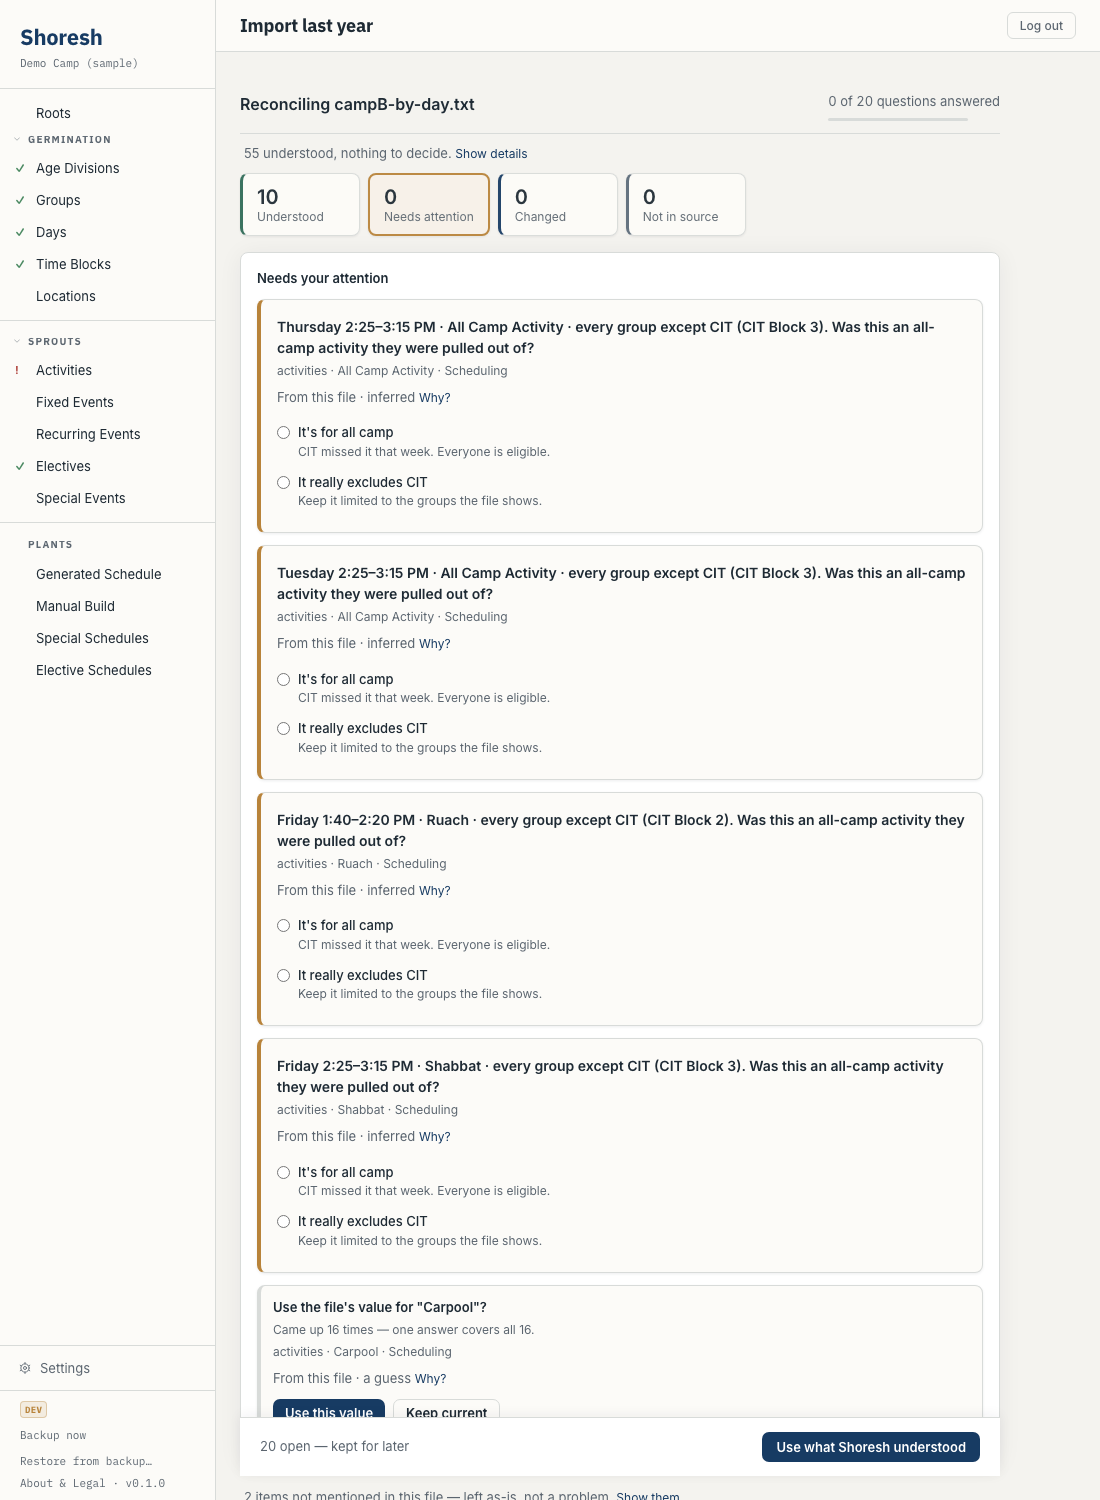
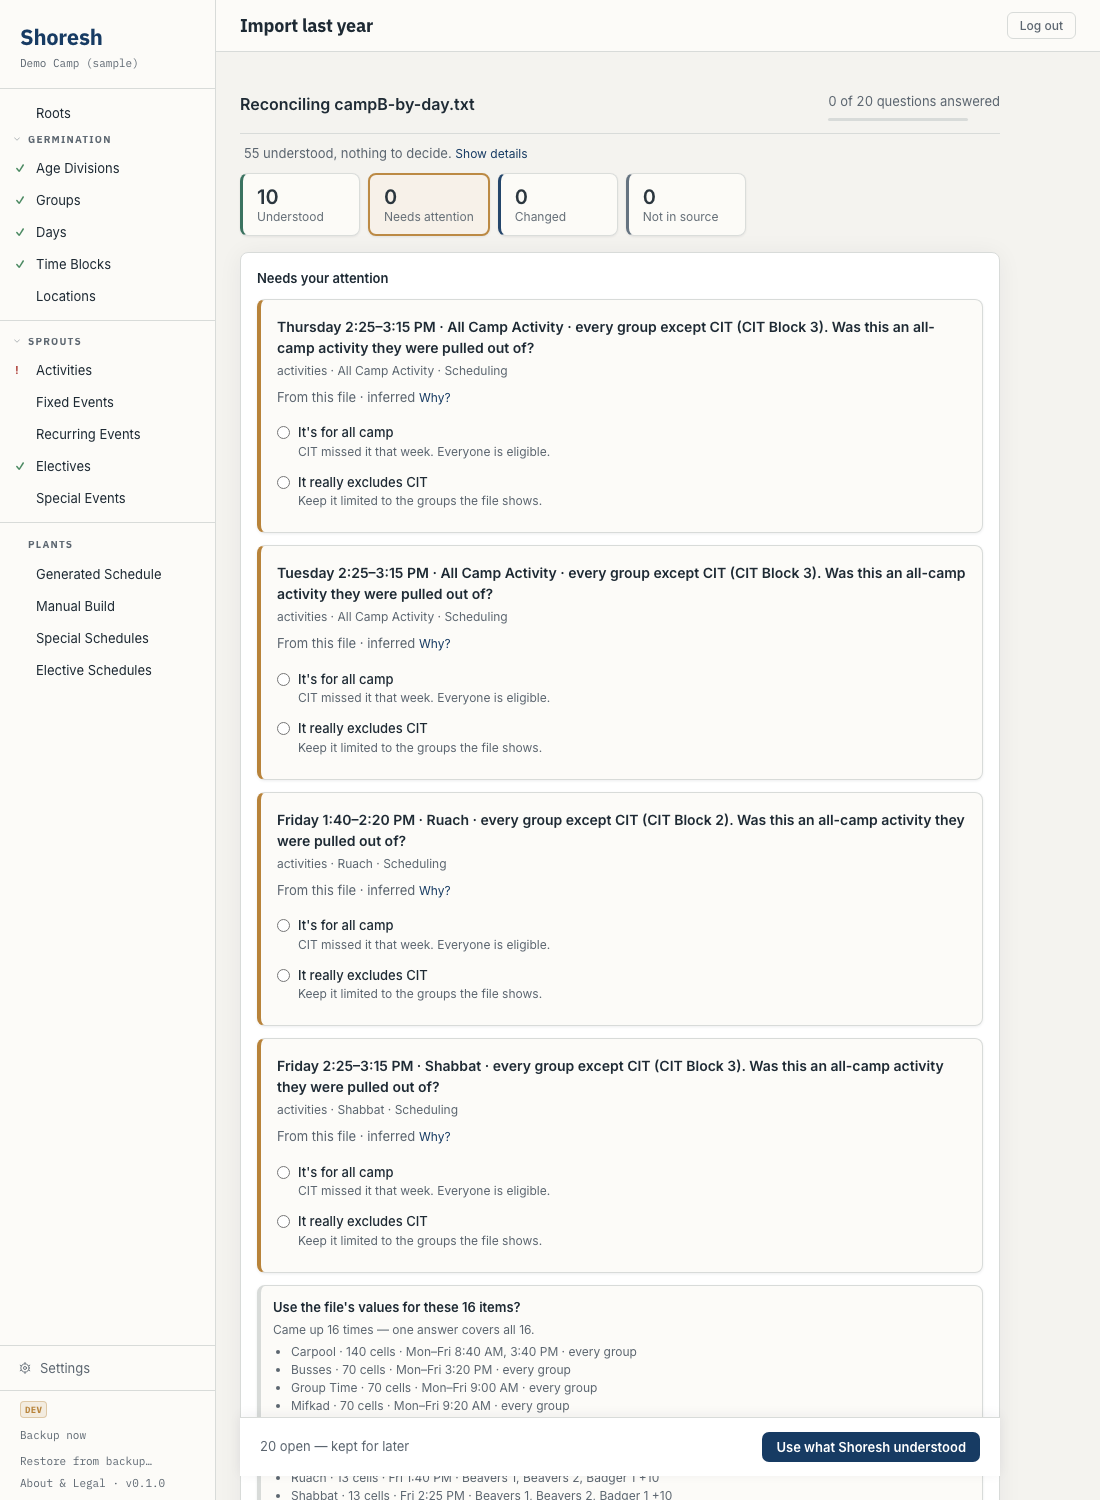
Aggregated review cards list where each item appears (days, 12-hour times, groups); a card for different items no longer names only the first

Changed region(s): [[0.2473, 0.8587, 0.5255, 0.9507], [0.2164, 0.9813, 0.6182, 1.0]]

diff --git a/src/ingest/appearsAt.js b/src/ingest/appearsAt.js
@@ -1,0 +1,91 @@
+import { startMinutesForOrdering } from './orderTimeBlocks.js'
+import { formatBlockStart12h } from './blockTimeText.js'
+
+// Where an item appears, compactly, so a review card never shows a bare name:
+// "Carpool · 140 cells · Mon–Fri 8:40 AM, 3:40 PM · every group".
+
+const DAYS = ['sunday', 'monday', 'tuesday', 'wednesday', 'thursday', 'friday', 'saturday']
+const MAX_TIMES = 3
+const MAX_GROUPS = 3
+
+const dayIndex = (d) => DAYS.indexOf(String(d ?? '').trim().toLowerCase())
+const abbr = (i) => `${DAYS[i][0].toUpperCase()}${DAYS[i].slice(1, 3)}`
+
+// Consecutive runs of three or more days read as a range ("Mon–Fri").
+function daysText(indices) {
+  const parts = []
+  for (let i = 0; i < indices.length;) {
+    let j = i
+    while (j + 1 < indices.length && indices[j + 1] === indices[j] + 1) j++
+    if (j - i >= 2) parts.push(`${abbr(indices[i])}–${abbr(indices[j])}`)
+    else for (let k = i; k <= j; k++) parts.push(abbr(indices[k]))
+    i = j + 1
+  }
+  return parts.join(', ')
+}
+
+function groupsText(names, allGroups) {
+  const all = allGroups.filter(Boolean)
+  if (all.length > 0 && all.every((g) => names.has(g))) return 'every group'
+  const ordered = all.filter((g) => names.has(g))
+  const list = ordered.length > 0 ? ordered : [...names]
+  const shown = list.slice(0, MAX_GROUPS).join(', ')
+  return list.length > MAX_GROUPS ? `${shown} +${list.length - MAX_GROUPS}` : shown
+}
+
+/**
+ * @param placements [{ groupName, dayName, blockLabel, activityName }]
+ * @returns "Name · N cells · days time(s) · groups", or just the name when the
+ *          file's grid says nothing about it.
+ */
+export function describeAppearance(placements, name, allGroups = []) {
+  const rows = (placements ?? []).filter((p) => p.activityName === name && dayIndex(p.dayName) >= 0)
+  if (rows.length === 0) return name
+
+  // block -> day indices it occurs on
+  const daysByBlock = new Map()
+  const groups = new Set()
+  for (const r of rows) {
+    groups.add(r.groupName)
+    if (!daysByBlock.has(r.blockLabel)) daysByBlock.set(r.blockLabel, new Set())
+    daysByBlock.get(r.blockLabel).add(dayIndex(r.dayName))
+  }
+
+  // Blocks sharing the same days read as one entry: "Mon–Fri 8:40 AM, 3:40 PM".
+  const timed = [...daysByBlock].map(([block, days]) => ({
+    days: [...days].sort((a, b) => a - b),
+    minutes: startMinutesForOrdering(block) ?? 0,
+    text: formatBlockStart12h(block),
+  }))
+  timed.sort((a, b) => a.days[0] - b.days[0] || a.minutes - b.minutes)
+  const shown = timed.slice(0, MAX_TIMES)
+  const entries = []
+  for (const t of shown) {
+    const key = t.days.join(',')
+    const last = entries[entries.length - 1]
+    if (last && last.key === key) last.times.push(t.text)
+    else entries.push({ key, days: t.days, times: [t.text] })
+  }
+  const when = entries.map((e) => `${daysText(e.days)} ${e.times.join(', ')}`).join(', ')
+  const more = timed.length > shown.length ? ` +${timed.length - shown.length} more` : ''
+
+  return `${name} · ${rows.length} cells · ${when}${more} · ${groupsText(groups, allGroups)}`
+}
+
+// A card that stands for several decisions lists every one of them.
+export function groupedCardLines(decisions) {
+  const list = decisions ?? []
+  const sameItem = new Set(list.map((d) => d.entityName)).size <= 1
+  if (sameItem && !list.some((d) => d.appearsAt)) return []
+  return [...new Set(list.map((d) => d.appearsAt ?? d.entityName).filter(Boolean))]
+}
+
+// Only when the grouped decisions are about different items is a headline that
+// names the first one untrue; otherwise the card keeps its own.
+export function groupedCardHeadline(decisions) {
+  const names = new Set((decisions ?? []).map((d) => d.entityName))
+  if (names.size <= 1) return null
+  return decisions[0]?.kind === 'elective_candidate'
+    ? `Create an empty elective set for each of these ${decisions.length} periods?`
+    : `Use the file's values for these ${decisions.length} items?`
+}

diff --git a/src/ingest/appearsAt.campB.test.js b/src/ingest/appearsAt.campB.test.js
@@ -1,0 +1,70 @@
+import { describe, it, expect } from 'vitest'
+import fs from 'node:fs'
+import path from 'node:path'
+import { parseTextGrid } from './textGrid.js'
+import { extractEntities } from './extractEntities.js'
+import { capturePlacements } from './capturePlacements.js'
+import { buildReconciliationReport } from './reconciliationReport.js'
+import { describeAppearance, groupedCardLines, groupedCardHeadline } from './appearsAt.js'
+
+// Keeper ruling: an aggregated review card lists where each item appears,
+// compactly — "Carpool · 140 cells · Mon–Fri 8:40 AM, 3:40 PM · every group".
+const campB = fs.readFileSync(path.join(process.cwd(), 'docs/work/specs/samples/campB-by-day.txt'), 'utf8')
+const parsed = parseTextGrid(campB)
+const proposal = extractEntities(parsed)
+const { placements } = capturePlacements(parsed, proposal)
+const groups = proposal.entities.groups
+
+describe('describeAppearance on campB', () => {
+  it('Carpool: days collapse to a range, times listed, every group', () => {
+    expect(describeAppearance(placements, 'Carpool', groups)).toBe('Carpool · 140 cells · Mon–Fri 8:40 AM, 3:40 PM · every group')
+  })
+
+  it('All Camp Activity: separate day sets stay separate, groups cap at 3 then +N', () => {
+    expect(describeAppearance(placements, 'All Camp Activity', groups)).toBe(
+      'All Camp Activity · 26 cells · Tue, Thu 2:25 PM · Beavers 1, Beavers 2, Badger 1 +10',
+    )
+  })
+
+  it('caps a long list of times', () => {
+    const many = ['08:40-09:00', '09:00-09:15', '09:20-09:40', '09:45-10:25', '10:35-11:15'].map((b, i) => (
+      { groupName: 'A', dayName: 'Monday', blockLabel: b, activityName: 'X' + (i ? '' : '') }
+    ))
+    const text = describeAppearance(many, 'X', ['A'])
+    expect(text).toMatch(/Mon 8:40 AM, 9:00 AM, 9:20 AM \+2 more/)
+  })
+
+  it('never returns a bare name when it knows nothing', () => {
+    expect(describeAppearance([], 'Ghost', groups)).toBe('Ghost')
+  })
+})
+
+describe('aggregated card copy', () => {
+  const item = (name) => ({ op: 'create', entity: 'activities', entity_id: null, _name: name, evidence: { tier: 'low' }, fields: {} })
+  const report = buildReconciliationReport({
+    planItems: [item('Carpool'), item('Busses')],
+    readiness: [],
+    placements,
+    allGroupNames: groups,
+  })
+  const decisions = report.decisions.filter((d) => d.kind === 'confirm_value')
+
+  it('each activity decision carries where it appears', () => {
+    expect(decisions.map((d) => d.appearsAt)).toEqual([
+      'Carpool · 140 cells · Mon–Fri 8:40 AM, 3:40 PM · every group',
+      'Busses · 70 cells · Mon–Fri 3:20 PM · every group',
+    ])
+  })
+
+  it('a card standing for different items lists every one, not just the first name', () => {
+    expect(groupedCardLines(decisions)).toEqual([
+      'Carpool · 140 cells · Mon–Fri 8:40 AM, 3:40 PM · every group',
+      'Busses · 70 cells · Mon–Fri 3:20 PM · every group',
+    ])
+    expect(groupedCardHeadline(decisions)).toBe("Use the file's values for these 2 items?")
+  })
+
+  it('a card standing for one repeated name keeps its own headline', () => {
+    expect(groupedCardHeadline([decisions[0], decisions[0]])).toBeNull()
+  })
+})

diff --git a/src/components/reconciliation/reconciliationCards.jsx b/src/components/reconciliation/reconciliationCards.jsx
@@ -4,6 +4,7 @@ import { DOMAIN_OF, REQUIRED_GAP_DOMAIN } from './domainRollup.js'
 import { isDecisionResolvedFor } from '../../screens/reconciliationTriage.js'
 import { normalizeWordKey } from '../../utils/normalizeWordKey.js'
 import { fieldLabel } from '../../screens/recordLabels.js'
+import { groupedCardHeadline, groupedCardLines } from '../../ingest/appearsAt.js'
 
 // Extracted from ReconciliationScreen.jsx (root-map port,
 // docs/adr/2026-08-18-rootmap-screen-port.md §1/"Files affected") so both
@@ -445,10 +446,11 @@ function quoteValue(value) {
     : formatFieldValue(value)
 }
 
-export function DecisionCard({ decision, rank, answer, onAnswer, expanded, onToggleEvidence, locations, repeatCount = 1 }) {
+export function DecisionCard({ decision, rank, answer, onAnswer, expanded, onToggleEvidence, locations, repeatCount = 1, members = null }) {
   const resolved = isDecisionResolvedFor(decision, { [decision.id]: answer })
   const cardStyle = rank === 'hold' ? cardStyles.cardHold : cardStyles.cardStandard
-  const question = questionFor(decision)
+  const question = (repeatCount > 1 && groupedCardHeadline(members)) || questionFor(decision)
+  const appearances = repeatCount > 1 ? groupedCardLines(members) : (decision.appearsAt ? [decision.appearsAt] : [])
   const showRemember = resolved && isIdentityDecision(decision) && answer?.choice === 'existing'
   const contentFade = useContentCrossfade(resolved)
 
@@ -461,6 +463,11 @@ export function DecisionCard({ decision, rank, answer, onAnswer, expanded, onTog
         <div style={{ fontSize: 12, color: 'var(--text-secondary)', marginTop: 4 }}>
           Came up {repeatCount} times — one answer covers all {repeatCount}.
         </div>
+      )}
+      {appearances.length > 0 && (
+        <ul style={{ margin: '4px 0 0', paddingLeft: 18, fontSize: 12, color: 'var(--text-secondary)' }}>
+          {appearances.map((line) => <li key={line}>{line}</li>)}
+        </ul>
       )}
       <div style={{ fontSize: 12, color: 'var(--text-secondary)', marginTop: 4 }}>
         {subtitleFor(decision)}

diff --git a/src/ingest/reconciliationReport.js b/src/ingest/reconciliationReport.js
@@ -16,6 +16,7 @@ import { CONFIDENCE } from './confidence.js'
 import { normalizeName } from './preview.js'
 import { unitDisplayName } from './fieldUpdate.js'
 import { formatBlockTime12h } from './blockTimeText.js'
+import { describeAppearance } from './appearsAt.js'
 
 // T257 — a group's `unit` delta may carry a discriminated token
 // ({kind, id?, name}) rather than a bare string. Director-facing copy
@@ -436,6 +437,8 @@ export function buildReconciliationReport(input) {
     evidenceSupport = {},
     blastRadiusIndex = new Map(),
     unknownFieldEvidence = new Map(),
+    // Where each activity sits in the file's grid, so a card can say so.
+    placements = [], allGroupNames = [],
   } = input ?? {}
   const { activities: activityEvidence = {}, fixedEvents: fixedEventEvidence = {} } = evidenceSupport ?? {}
 
@@ -727,12 +730,18 @@ export function buildReconciliationReport(input) {
     })
   }
 
-  const decisions = [...decisionsByKey.values()].map((decision) => ({
-    ...decision,
-    blastRadius: blastRadiusIndex.get(
-      blastRadiusKeyFor(decision.entity, decision.entityId, decision.entityName),
-    ) ?? 0,
-  }))
+  const decisions = [...decisionsByKey.values()].map((decision) => {
+    const appearsAt = (decision.entity === 'activities' || decision.kind === 'elective_candidate') && decision.entityName && decision.kind !== 'all_camp_override'
+      ? describeAppearance(placements, decision.entityName, allGroupNames)
+      : decision.entityName
+    return {
+      ...decision,
+      ...(appearsAt && appearsAt !== decision.entityName ? { appearsAt } : {}),
+      blastRadius: blastRadiusIndex.get(
+        blastRadiusKeyFor(decision.entity, decision.entityId, decision.entityName),
+      ) ?? 0,
+    }
+  })
 
   return {
     buckets,

diff --git a/src/screens/ImportScreen.jsx b/src/screens/ImportScreen.jsx
@@ -162,6 +162,7 @@ export default function ImportScreen({ campId, onNavigate }) {
   // time and must survive staging nulling `proposal` out.
   const divisionsRef = useRef([])
   const allCampOverridesRef = useRef([])
+  const allGroupNamesRef = useRef([])
   const coScheduleRef = useRef(new Map())
   const groupTierByNameRef = useRef({})
   const fixedEventNamesRef = useRef([])
@@ -370,6 +371,7 @@ export default function ImportScreen({ campId, onNavigate }) {
     groupTierByNameRef.current = {}
     coScheduleRef.current = new Map()
     allCampOverridesRef.current = []
+    allGroupNamesRef.current = []
     fileGroupUnitsRef.current = {}
     fileActivityLocationsRef.current = {}
     confirmedCompoundDecisionsRef.current = new Map()
@@ -718,6 +720,7 @@ export default function ImportScreen({ campId, onNavigate }) {
       // A near-all, once-a-week activity is probably an all-camp activity the
       // director pulled a group out of, not one that excludes them. Detected
       // here, asked in reconciliation — never inferred silently either way.
+      allGroupNamesRef.current = proposal.entities.groups ?? []
       allCampOverridesRef.current = detectAllCampOverrides(
         placementsRef.current,
         proposal.entities.groups ?? [],
@@ -1564,6 +1567,8 @@ export default function ImportScreen({ campId, onNavigate }) {
         // here), asked in reconciliation like every other thing the import is
         // unsure about.
         allCampOverrides={allCampOverridesRef.current}
+        placements={placementsRef.current}
+        allGroupNames={allGroupNamesRef.current}
       />
     )
   }

diff --git a/src/screens/ReconciliationScreen.jsx b/src/screens/ReconciliationScreen.jsx
@@ -69,7 +69,7 @@ export default function ReconciliationScreen({ entry = 'import', ...rest }) {
   return <ImportReconciliation {...rest} />
 }
 
-function ImportReconciliation({ baseInputs, sourceLabel, onCommitted, onDiscard, onNavigate, factCount = 0, isFirstImport = false, allCampOverrides = [], phase = 'triage', outcome = null, notices = [] }) {
+function ImportReconciliation({ baseInputs, sourceLabel, onCommitted, onDiscard, onNavigate, factCount = 0, isFirstImport = false, allCampOverrides = [], placements = [], allGroupNames = [], phase = 'triage', outcome = null, notices = [] }) {
   // U1 (docs/adr/2026-08-17-onescreen-reconciliation-undo.md, T253 Amendment)
   // — owned by THIS screen's own hook instance, never module-level, never
   // persisted (Invariant 5). ImportScreen keeps this screen mounted through
@@ -188,6 +188,8 @@ function ImportReconciliation({ baseInputs, sourceLabel, onCommitted, onDiscard,
         // T114 — computed at parse time in ImportScreen (placements live there),
         // not by the dry run, so it arrives as a prop rather than on `result`.
         allCampOverrides,
+        placements,
+        allGroupNames,
       })
       if (requestGenRef.current !== myGen) return
       lastGoodReportRef.current = nextReport

diff --git a/src/components/reconciliation/groupIdenticalDecisions.js b/src/components/reconciliation/groupIdenticalDecisions.js
@@ -31,7 +31,7 @@ function signatureOf(decision) {
 
 /**
  * @param decisions the unanswered decisions a lane is about to render
- * @returns [{ decision, ids, count }] in first-appearance order — `decision` is
+ * @returns [{ decision, ids, members, count }] in first-appearance order — `decision` is
  *          the first member, to render; `ids` is every member, to answer.
  */
 export function groupIdenticalDecisions(decisions = []) {
@@ -39,8 +39,8 @@ export function groupIdenticalDecisions(decisions = []) {
   for (const decision of decisions) {
     const key = signatureOf(decision)
     const existing = groups.get(key)
-    if (existing) existing.ids.push(decision.id)
-    else groups.set(key, { decision, ids: [decision.id] })
+    if (existing) { existing.ids.push(decision.id); existing.members.push(decision) }
+    else groups.set(key, { decision, ids: [decision.id], members: [decision] })
   }
   return [...groups.values()].map((g) => ({ ...g, count: g.ids.length }))
 }

diff --git a/src/ingest/blockTimeText.js b/src/ingest/blockTimeText.js
@@ -1,5 +1,5 @@
 import { startMinutesForOrdering } from './orderTimeBlocks.js'
-import { timeRangeLabel } from '../utils/timeBlockLabel.js'
+import { timeRangeLabel, formatTime12 } from '../utils/timeBlockLabel.js'
 
 const RANGE = /^\s*(\d{1,2})[:.](\d{2})\s*[-–—]\s*(\d{1,2})[:.](\d{2})\s*$/
 
@@ -18,4 +18,12 @@ export function formatBlockTime12h(label) {
   const end = startMinutesForOrdering(`${m[3]}:${m[4]}`)
   if (start == null || end == null || end <= start) return text
   return timeRangeLabel({ start_time: hhmm(start), end_time: hhmm(end) })
+}
+
+// Just the start of a range, "3:20 PM", by the same camp-day rule.
+export function formatBlockStart12h(label) {
+  const text = String(label ?? '')
+  const m = text.match(/^\s*(\d{1,2})[:.](\d{2})/)
+  const start = m ? startMinutesForOrdering(`${m[1]}:${m[2]}`) : null
+  return start == null ? text : formatTime12(hhmm(start))
 }

diff --git a/src/components/reconciliation/RootMapPanel.jsx b/src/components/reconciliation/RootMapPanel.jsx
@@ -296,11 +296,12 @@ export default function RootMapPanel({
               a director answering the twenty-fifth could not have answered it
               differently from the first. Grouping is DISPLAY only — every id in
               the group still gets its own staged answer. */}
-          {groupIdenticalDecisions(rest.filter((d) => answers[d.id] === undefined)).map(({ decision: d, ids, count }) => (
+          {groupIdenticalDecisions(rest.filter((d) => answers[d.id] === undefined)).map(({ decision: d, ids, members, count }) => (
             <DecisionCard
               key={d.id}
               decision={d}
               repeatCount={count}
+              members={members}
               rank={lanes.hold.includes(d) ? 'hold' : 'standard'}
               answer={answers[d.id]}
               onAnswer={(a) => onAnswer(ids, a)}
